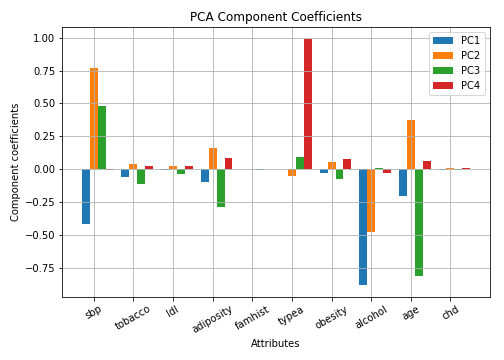
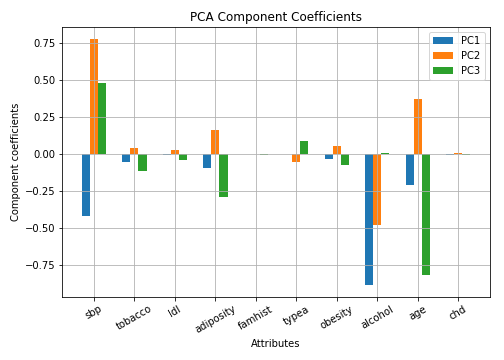
PCA Components

diff --git a/component_coefficients.py b/component_coefficients.py
@@ -18,7 +18,7 @@ U,S,Vh = svd(Y,full_matrices=False)
 V=Vh.T
 
 
-pcs = [0,1,2,3]
+pcs = [0,1,2]
 legendStrs = ['PC'+str(e+1) for e in pcs]
 c = ['r','g','b']
 bw = .2
